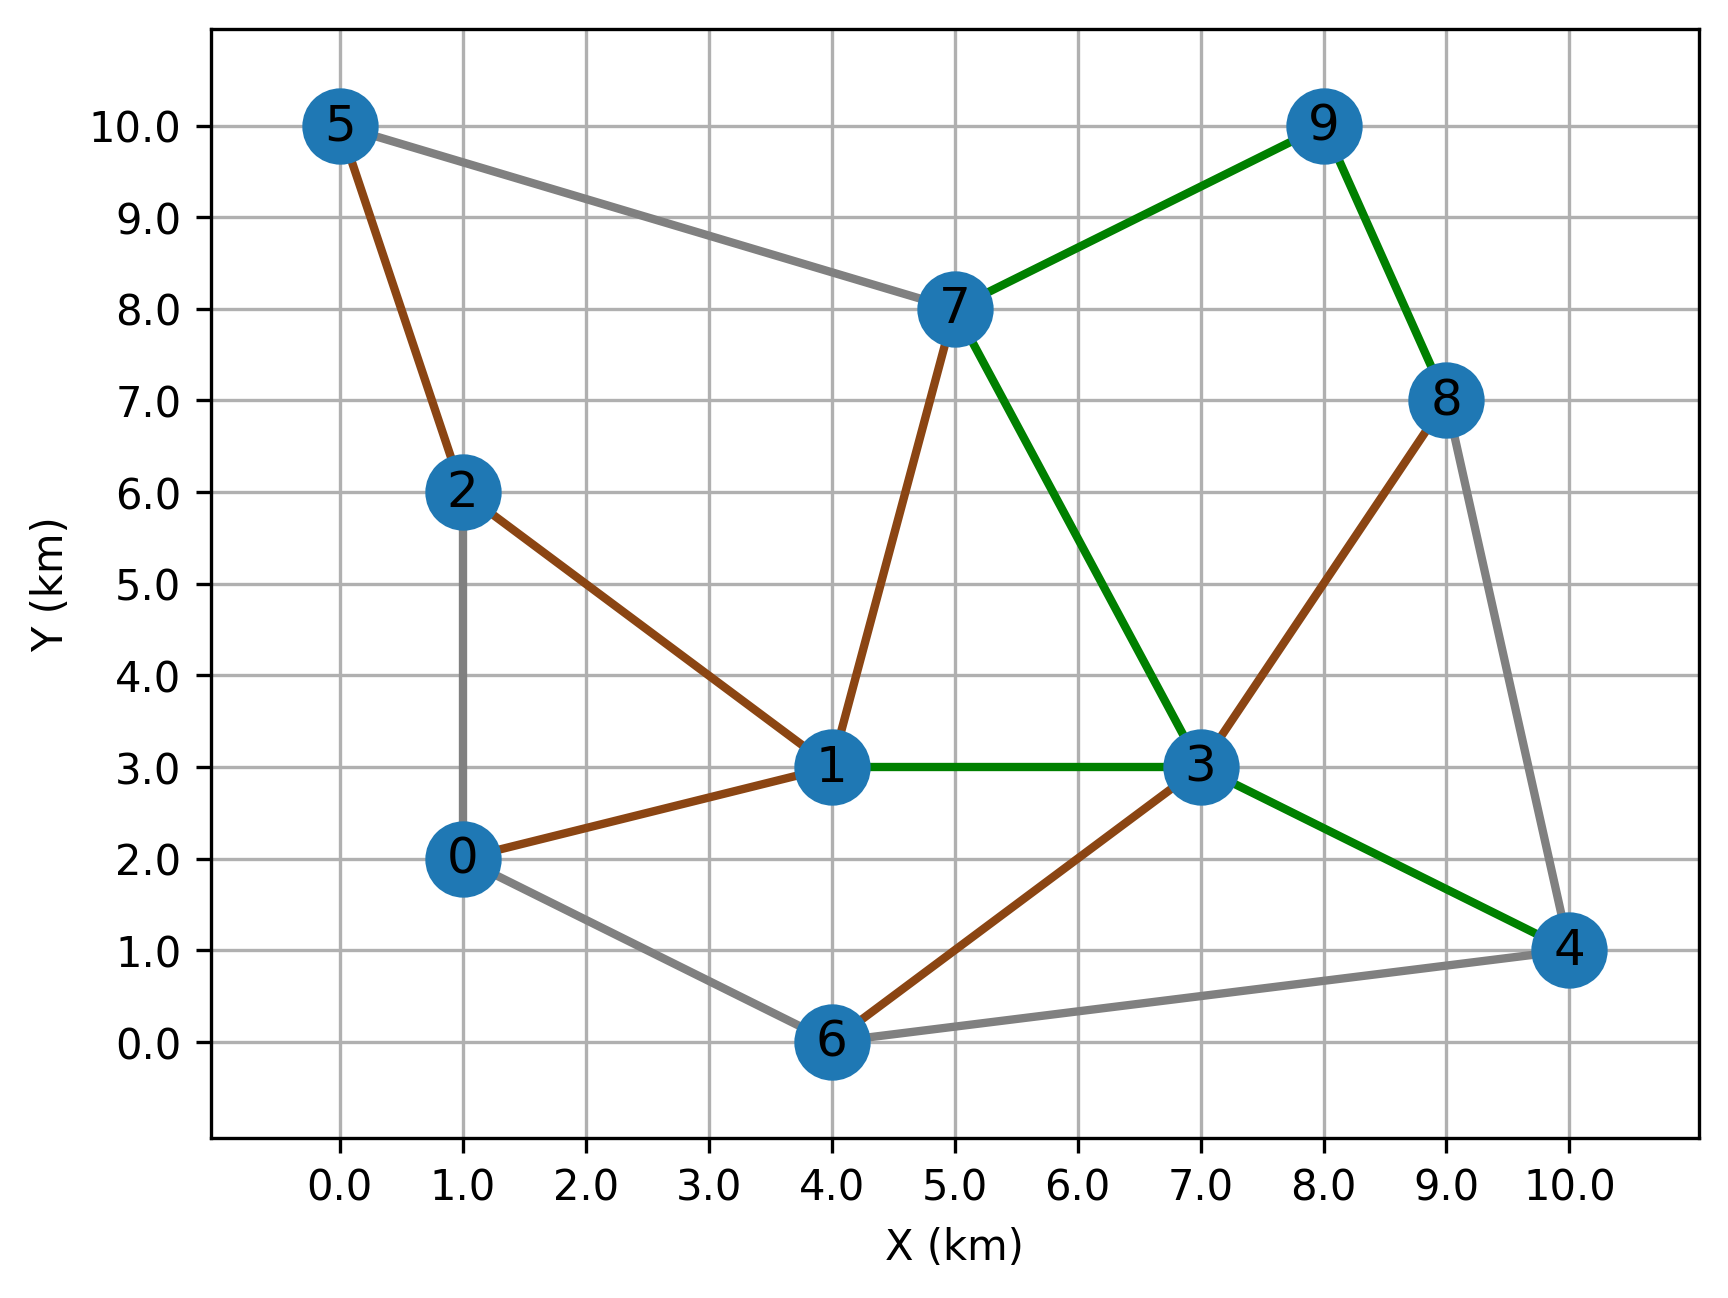
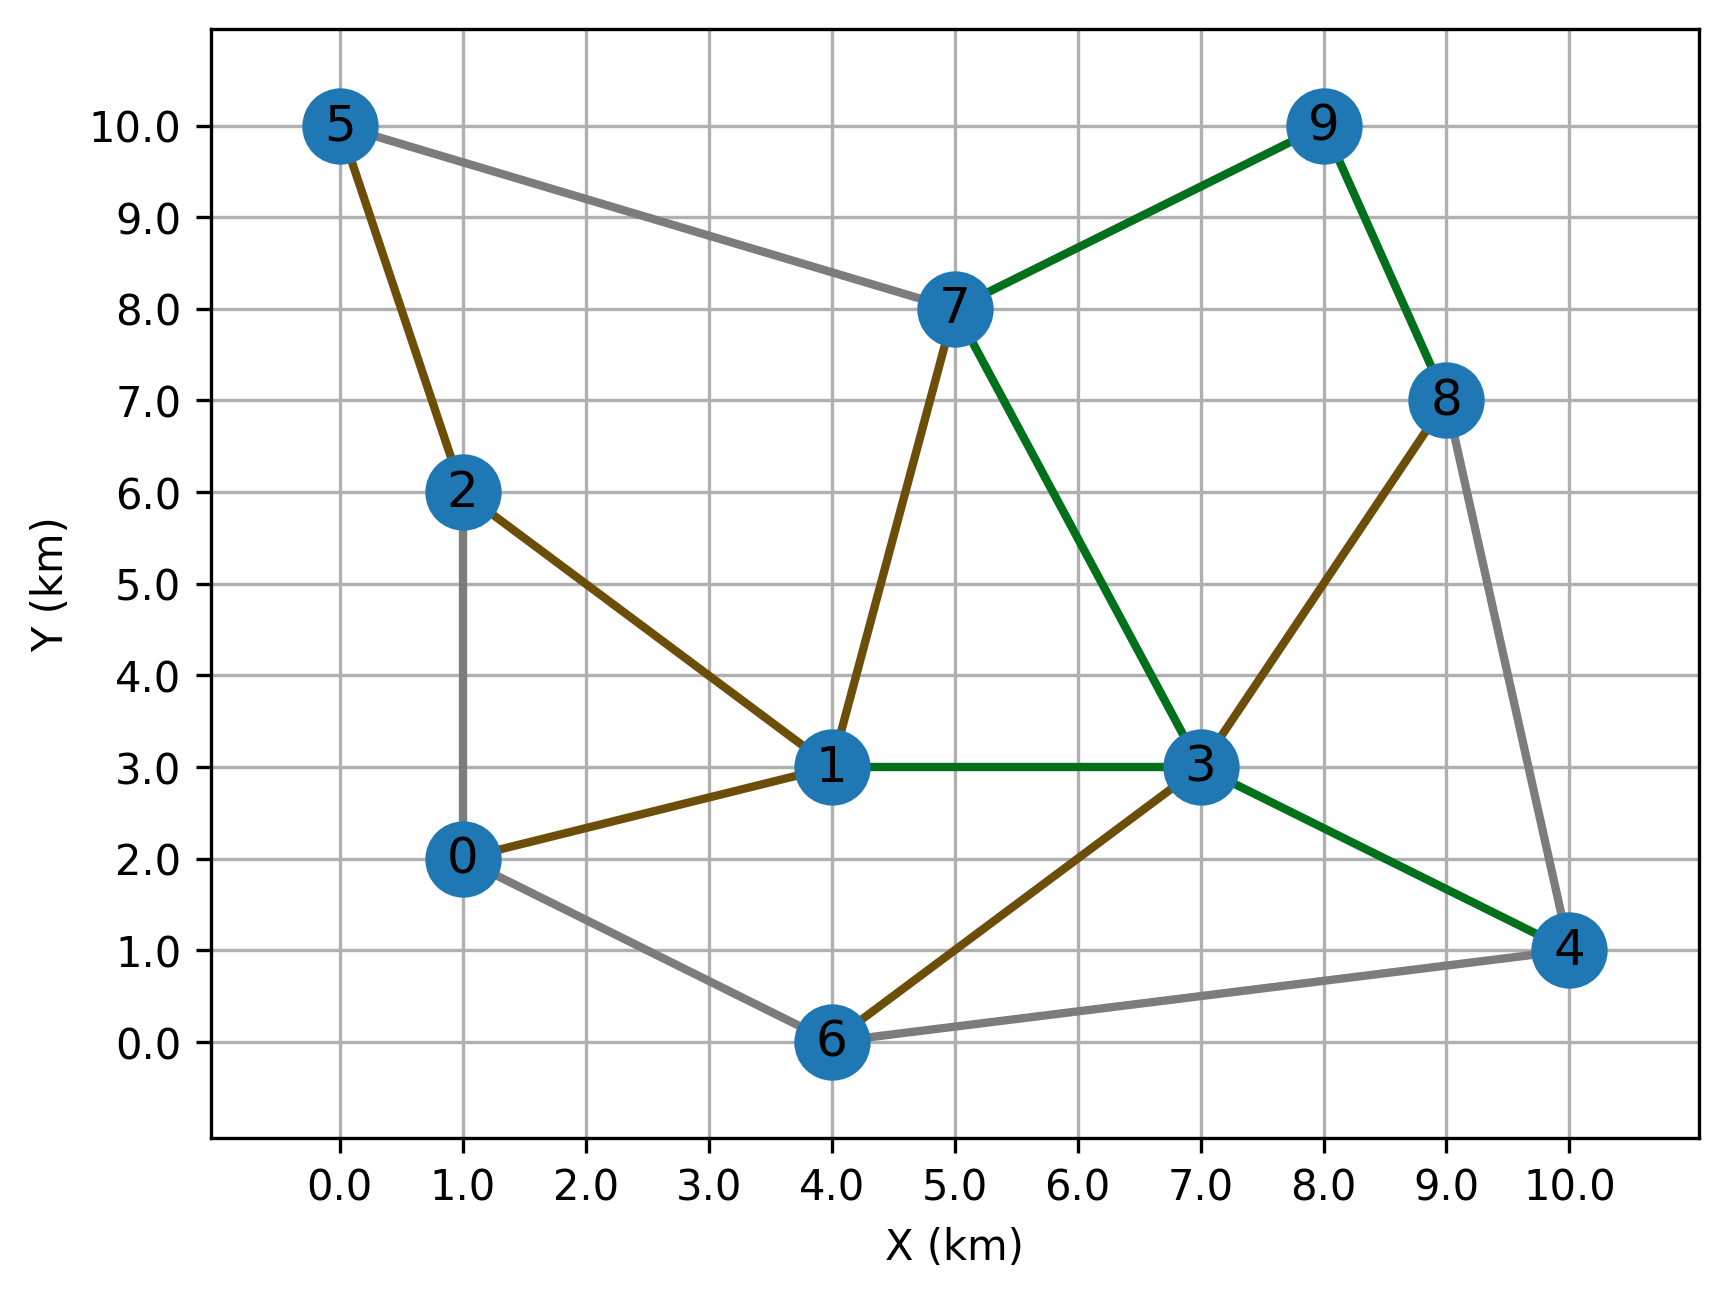
P3E2 READY

diff --git a/Entrega 2/p3p2.py b/Entrega 2/p3p2.py
@@ -3,6 +3,11 @@ import matplotlib.pyplot as plt
 import numpy as np
 import math as math
 
+rgb = lambda h: tuple(int(h[i:i+2], 16)/256. for i in (0, 2, 4))
+gris = rgb("7C7C7C")
+cafe = rgb("6C4E09")
+verde = rgb("00701A")
+
 G = nx.Graph()   #Graph asume bidireccionalidad en todos los arcos
 
 G.add_node(0, pos=[1.0, 2.0])
@@ -41,11 +46,11 @@ colores = []
 edgelist = []
 for ni, nf, data in G.edges(data=True):
 	if data["lim_vel"] == 120:
-		colores.append("gray")
+		colores.append(gris)
 	elif data["lim_vel"] == 60:
-		colores.append("green")
+		colores.append(verde)
 	elif data["lim_vel"] == 40:
-		colores.append("saddlebrown")
+		colores.append(cafe)
 	else:
 		colores.append("k")
 
@@ -121,7 +126,7 @@ for ni, nf in G.edges:
 		colores01.append("r")
 		width01.append(5)
 	else:
-		colores01.append("gray")
+		colores01.append(gris)
 		width01.append(1)
 	edgelist01.append((ni,nf))
 
@@ -133,7 +138,7 @@ for ni, nf in G.edges:
 		colores02.append("r")
 		width02.append(5)
 	else:
-		colores02.append("gray")
+		colores02.append(gris)
 		width02.append(1)
 	edgelist02.append((ni,nf))
 
@@ -145,7 +150,7 @@ for ni, nf in G.edges:
 		colores03.append("r")
 		width03.append(5)
 	else:
-		colores03.append("gray")
+		colores03.append(gris)
 		width03.append(1)
 	edgelist03.append((ni,nf))
 
@@ -161,6 +166,7 @@ nx.draw_networkx_nodes(G, pos=pos, ax=ax)
 nx.draw_networkx_labels(G, pos=pos)
 nx.draw_networkx_edges(G, pos, edgelist=edgelist01, edge_color=colores01, width=width01)
 
+fig2.suptitle(f"Tiempo de Viaje Ruta 01 = {np.round(tiempo_viaje_01, 2)} [hrs], lo que corresponde a {np.round(tiempo_viaje_01*60, 2)} [min]")
 ax.tick_params(left=True, bottom=True, labelleft=True, labelbottom=True)
 ax.set_ylabel('Y (km)')
 ax.set_xlabel('X (km)')
@@ -180,6 +186,7 @@ nx.draw_networkx_nodes(G, pos=pos, ax=ax)
 nx.draw_networkx_labels(G, pos=pos)
 nx.draw_networkx_edges(G, pos, edgelist=edgelist02, edge_color=colores02, width=width02)
 
+fig3.suptitle(f"Tiempo de Viaje Ruta 02 = {np.round(tiempo_viaje_02, 2)} [hrs], lo que corresponde a {np.round(tiempo_viaje_02*60, 2)} [min]")
 ax.tick_params(left=True, bottom=True, labelleft=True, labelbottom=True)
 ax.set_ylabel('Y (km)')
 ax.set_xlabel('X (km)')
@@ -199,6 +206,7 @@ nx.draw_networkx_nodes(G, pos=pos, ax=ax)
 nx.draw_networkx_labels(G, pos=pos)
 nx.draw_networkx_edges(G, pos, edgelist=edgelist03, edge_color=colores03, width=width03)
 
+fig4.suptitle(f"Tiempo de Viaje Ruta 03 = {np.round(tiempo_viaje_03, 2)} [hrs], lo que corresponde a {np.round(tiempo_viaje_03*60, 2)} [min]")
 ax.tick_params(left=True, bottom=True, labelleft=True, labelbottom=True)
 ax.set_ylabel('Y (km)')
 ax.set_xlabel('X (km)')
